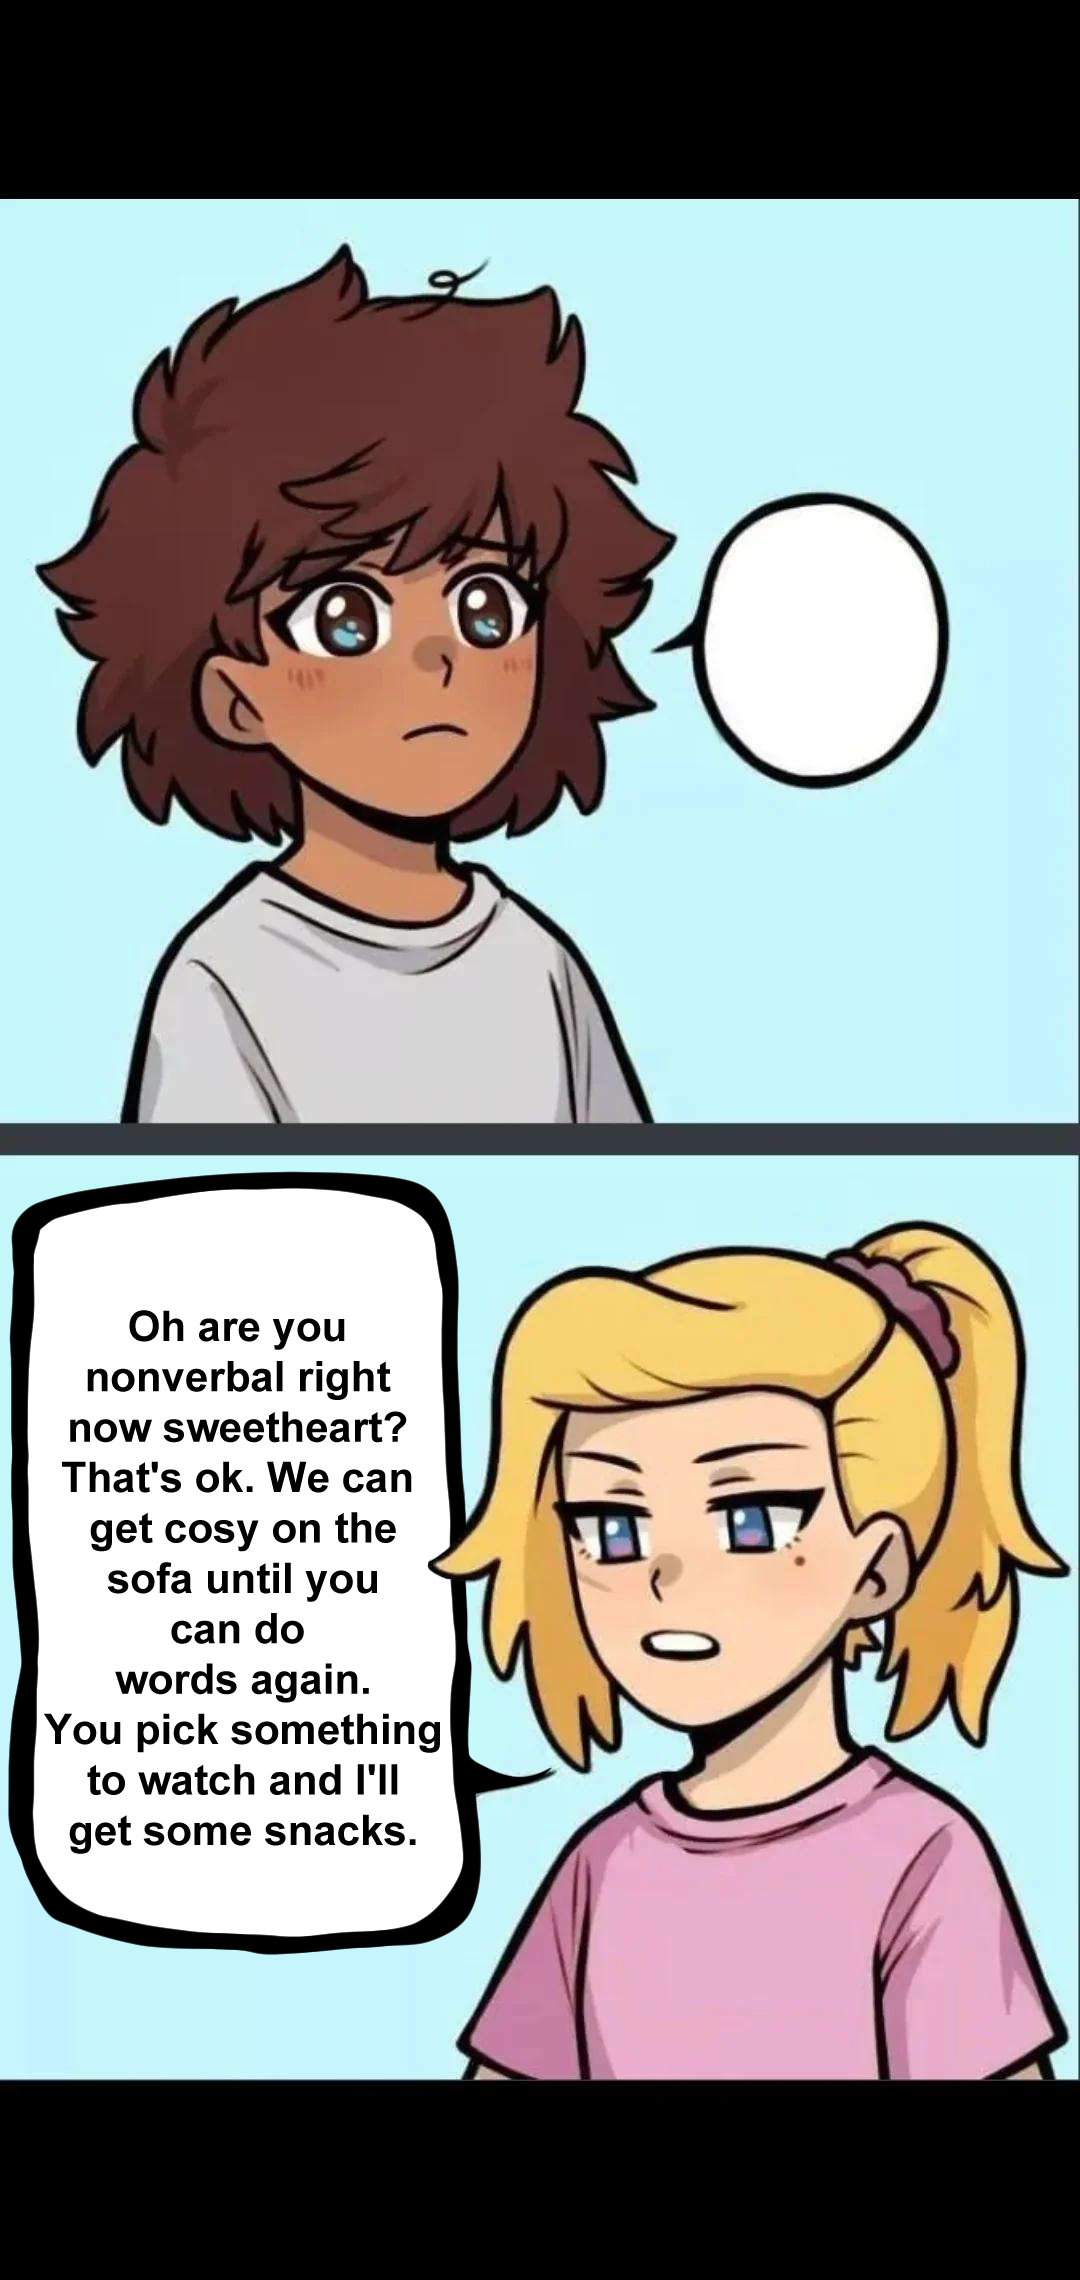
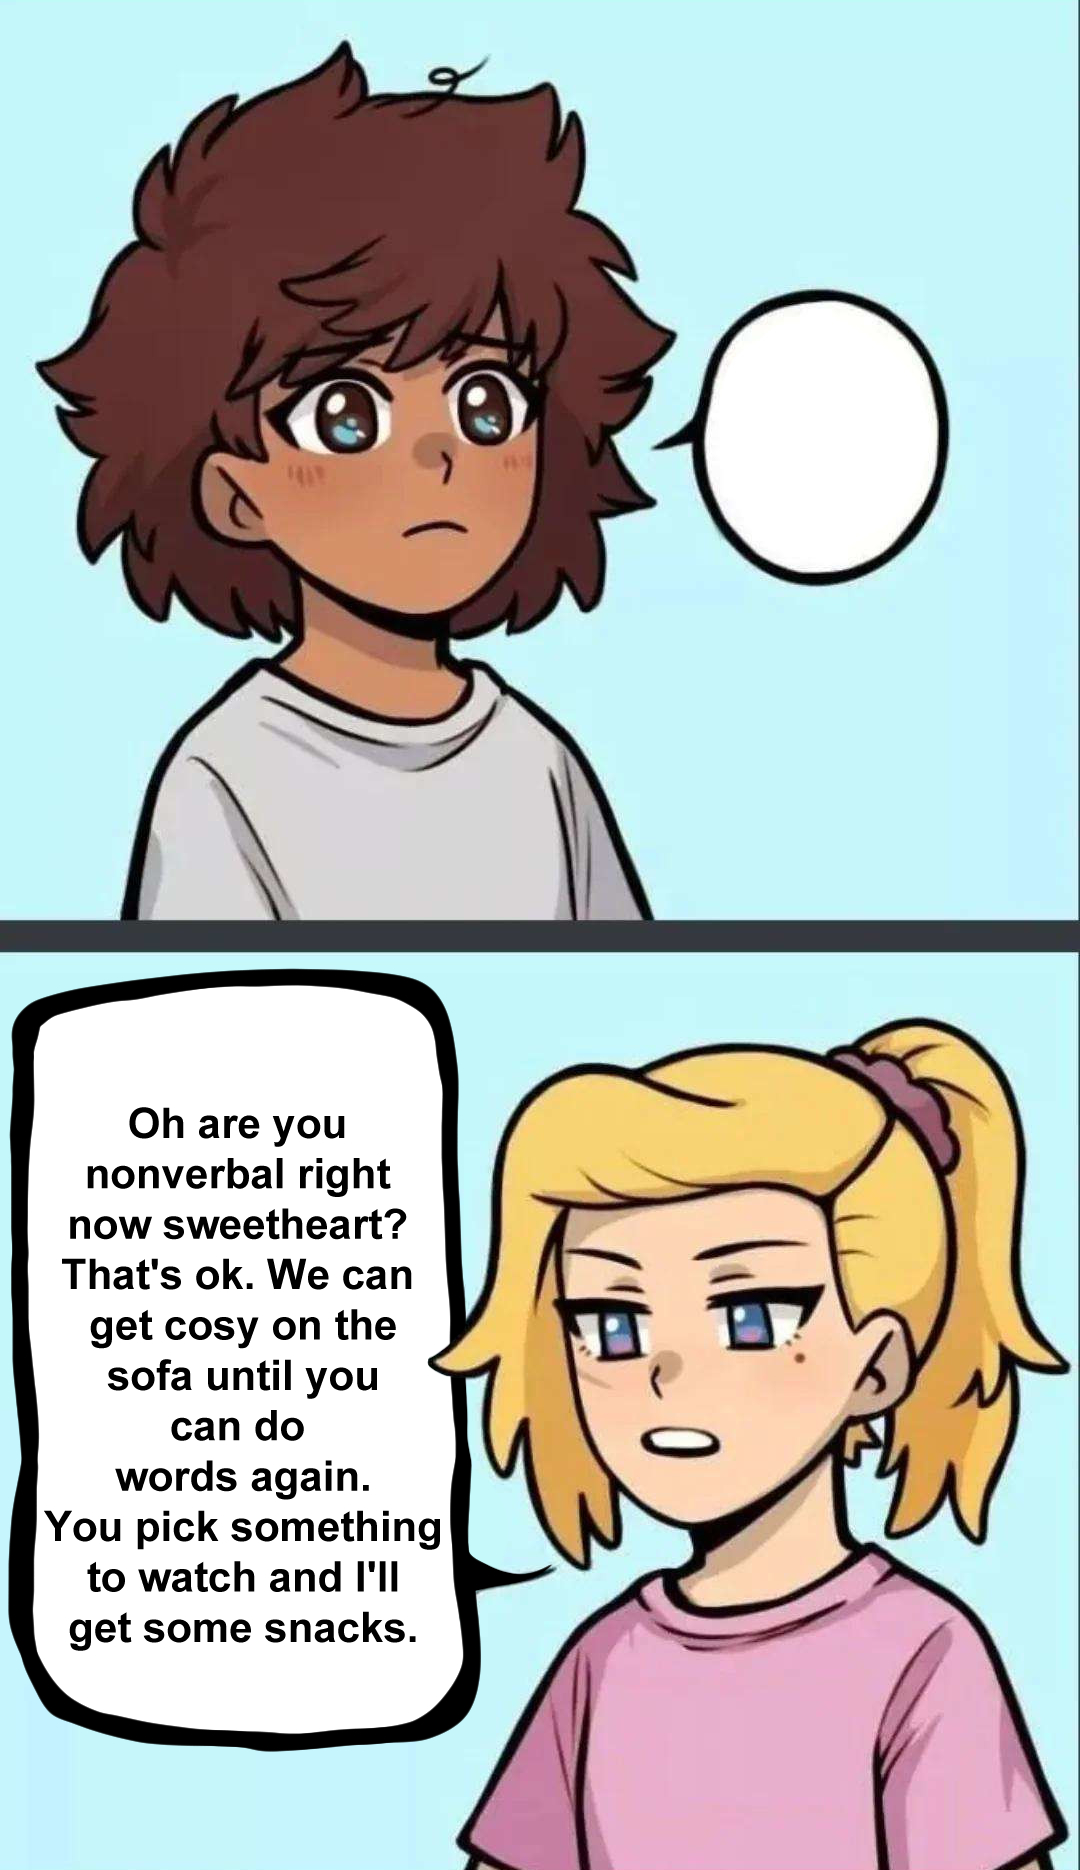
adjusted softbottom template, text placement, emoji scaling

diff --git a/bottom_meme.py b/bottom_meme.py
@@ -44,7 +44,7 @@ async def on_message(message):
             open(f'{ftype}', 'wb').write(myfile.content)
             if str.lower(message.content).startswith('bottom'):
                 background = Image.open('unknown.png')
-                foreground = Image.open(ftype)
+                foreground = Image.open(ftype).convert("RGBA")
                 drawspace = ImageDraw.Draw(background)
                 font = ImageFont.truetype("Ldfcomicsans.ttf", 20)
                 drawspace.text((100, 250), replied.author.name, fill=(0,0,0), font=font)
@@ -77,19 +77,19 @@ async def on_message(message):
                 os.remove(ftype)
             if str.lower(message.content).startswith('softbottom'):
                 background = Image.open('softbottom.jpg')
-                foreground = Image.open(ftype)
+                foreground = Image.open(ftype).convert("RGBA")
                 drawspace = ImageDraw.Draw(background)
-                font = ImageFont.truetype("Ldfcomicsans.ttf", 20)
-                drawspace.text((300, 370), replied.author.name, fill=(0,0,0), font=font)
-                drawspace.text((600, 1330), message.author.name, fill=(0,0,0), font=font)
+                font = ImageFont.truetype("Ldfcomicsans.ttf", 50)
+                drawspace.text((300, 170), replied.author.name, fill=(0,0,0), font=font)
+                drawspace.text((600, 1130), message.author.name, fill=(0,0,0), font=font)
                 if emoji.animated:
                     print(f'Animated emoji found')
                     src_duration = foreground.info["duration"]
                     frames = []
                     for i in ImageSequence.Iterator(foreground):
                         frame_back = copy.deepcopy(background)
-                        i = i.resize((100, 100), Resampling.LANCZOS)
-                        frame_back.paste(i, (760, 600))
+                        i = i.resize((200, 200), Resampling.LANCZOS)
+                        frame_back.paste(i, (730, 320))
                         frame_back = frame_back.convert('RGB')
                         frames.append(frame_back)
                     print(frames[0])
@@ -98,7 +98,9 @@ async def on_message(message):
                     os.remove('out.gif')
                 else:
                     print(f'Static emoji found')
-                    background.paste(foreground, (760, 600), mask=foreground)
+                    scaleRatio = await findScaleRatio(180,180,foreground.width,foreground.height)
+                    foreground = await scaleResizeImage(foreground, scaleRatio)
+                    background.paste(foreground, (730, 320), mask=foreground)
                     background.save('out.png')
                     await replied.reply(file=discord.File('out.png'))
                     os.remove('out.png')
@@ -133,18 +135,25 @@ async def on_message(message):
             for default_emoji in default_emojis:
                 background = Image.open('softbottom.jpg')
                 parser = TwemojiParser(background)
-                font = ImageFont.truetype("Ldfcomicsans.ttf", 100)
-                await parser.draw_text((760, 600), default_emoji, font=font)
+                font = ImageFont.truetype("Ldfcomicsans.ttf", 200)
+                await parser.draw_text((730, 320), default_emoji, font=font)
                 await parser.close()
                 drawspace = ImageDraw.Draw(background)
-                font = ImageFont.truetype("Ldfcomicsans.ttf", 60)
-                drawspace.text((280, 370), replied.author.name, fill=(0,0,0), font=font)
-                drawspace.text((550, 1310), message.author.name, fill=(0,0,0), font=font)
+                font = ImageFont.truetype("Ldfcomicsans.ttf", 50)
+                drawspace.text((300, 170), replied.author.name, fill=(0,0,0), font=font)
+                drawspace.text((550, 1130), message.author.name, fill=(0,0,0), font=font)
                 background.save('out.png')
                 await replied.reply(file=discord.File('out.png'))
                 os.remove('out.png')
                 break
 
+async def findScaleRatio(maxwidth, maxheight, currentwidth, currentheight):
+    return min(maxwidth/currentwidth, maxheight/currentheight)
+
+async def scaleResizeImage(image, scaleRatio):
+    newWidth = int(image.width * scaleRatio)
+    newHeight = int(image.height * scaleRatio)
+    return image.resize((newWidth, newHeight))
 
 async def split_count(text):
     emoji_list = []
